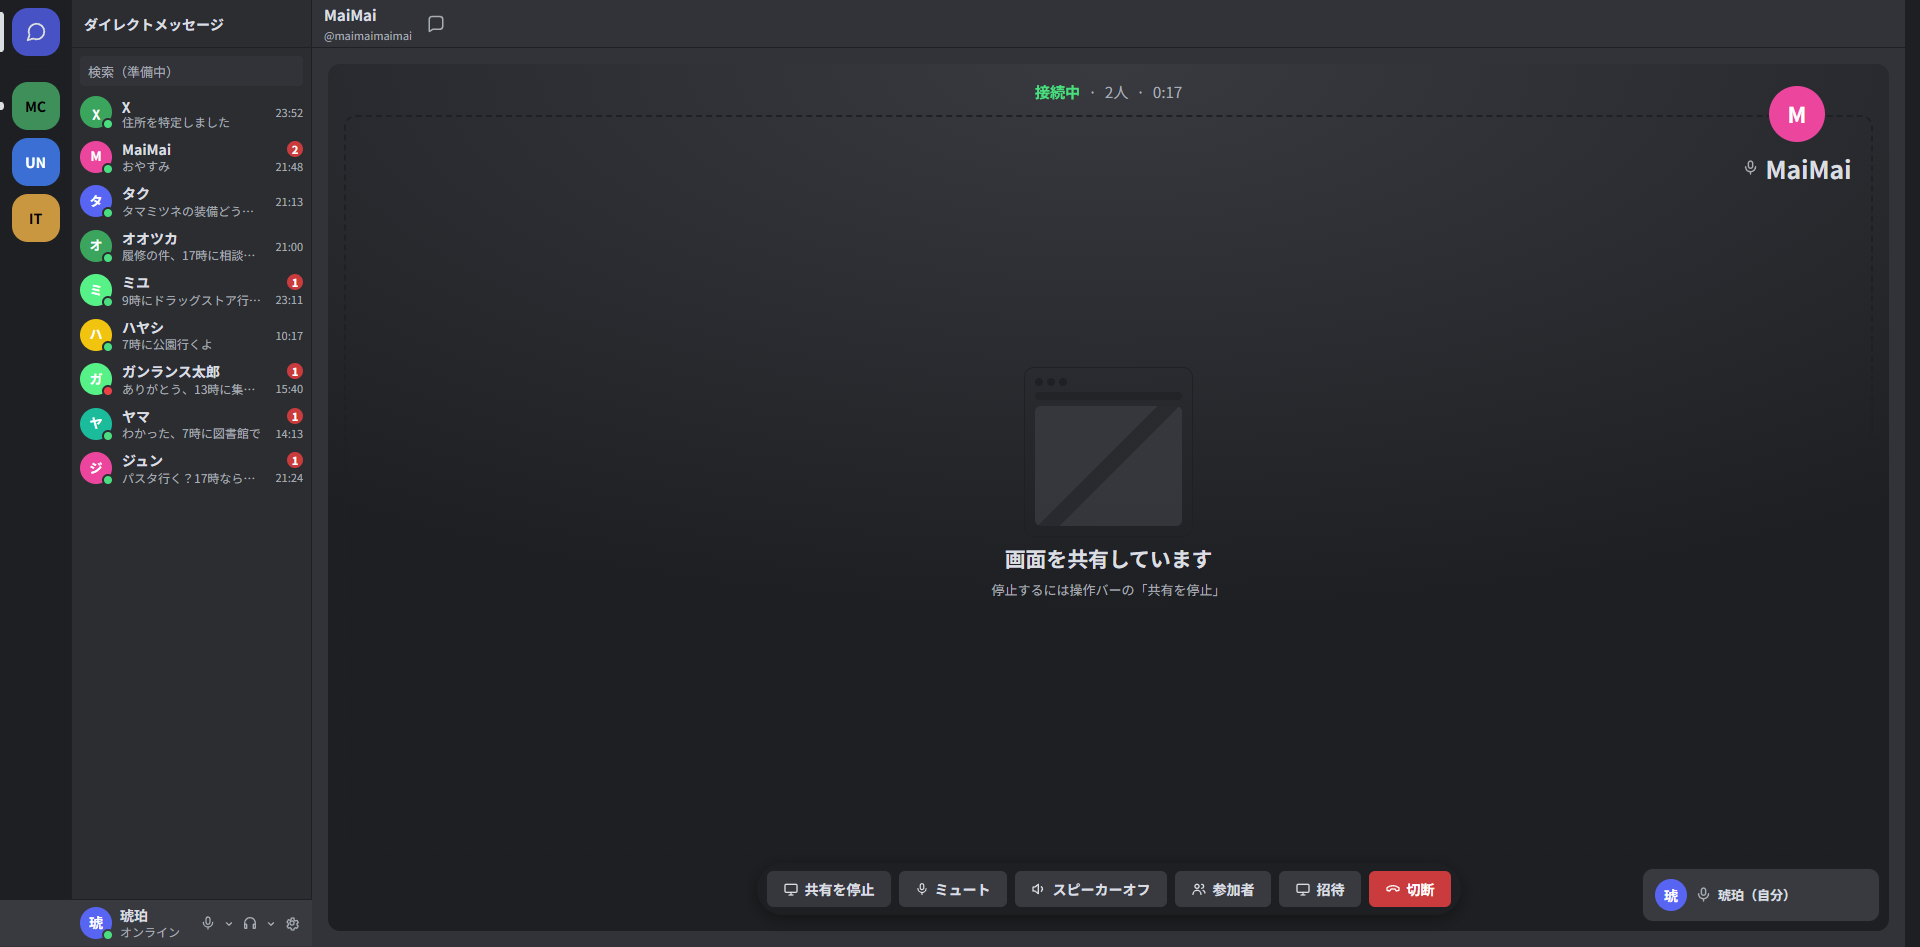
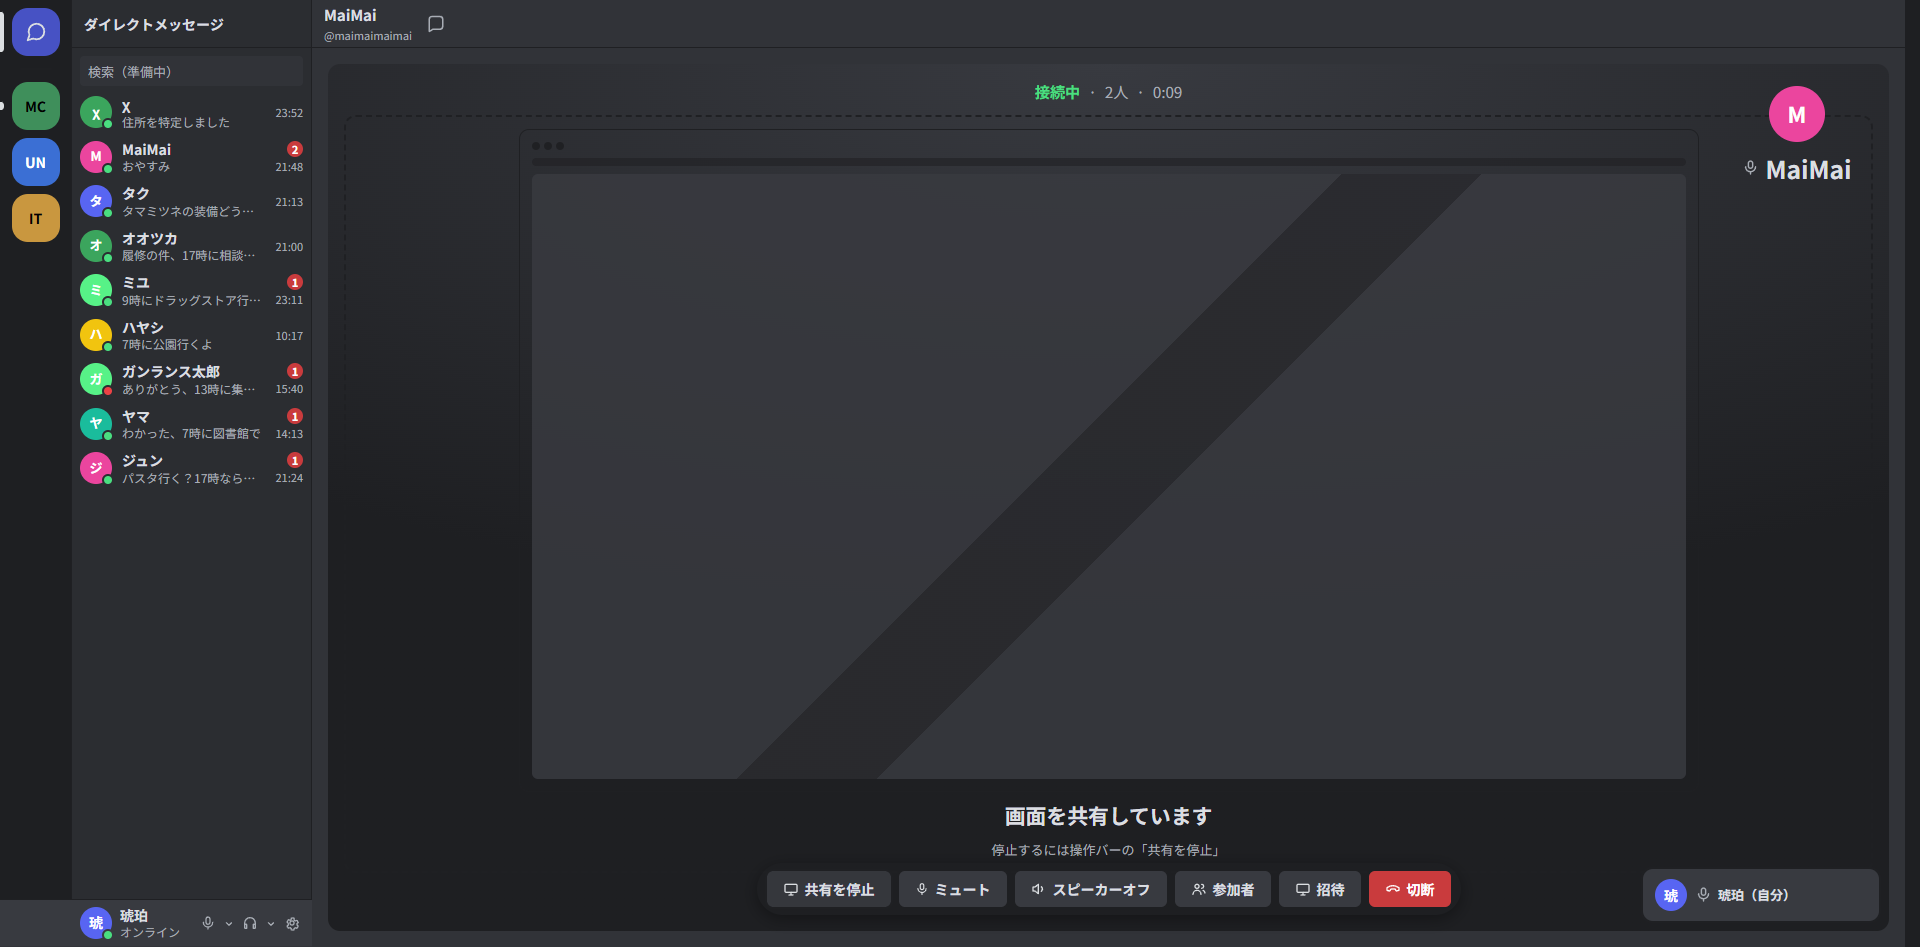
fix(voice): 共有中のウィンドウを大きくして画面の主役にする
1180px/88%・16:9・50vh以上にし、ステージの空領域を減らした。共有中スクショを差し替え。

Changed region(s): [[0.25, 0.5512, 0.875, 0.9187]]

diff --git a/app/globals.css b/app/globals.css
@@ -6778,9 +6778,11 @@ a.tw-dm-item:focus-visible {
 .call-share {
   display: grid;
   flex: 1;
-  place-content: center;
-  gap: 6px;
-  padding: 24px;
+  grid-template-columns: minmax(0, 1fr);
+  align-content: center;
+  justify-items: center;
+  gap: 8px;
+  padding: 12px;
   border: 2px dashed var(--color-divider);
   border-radius: 12px;
   color: var(--color-text-muted);
@@ -6850,10 +6852,14 @@ a.tw-dm-item:focus-visible {
 /* 共有中のプレースホルダー（ウィンドウ風） */
 .call-share-window {
   display: grid;
-  gap: 6px;
-  width: min(560px, 72%);
+  grid-template-rows: auto auto minmax(0, 1fr);
+  gap: 8px;
+  width: min(1180px, 88%);
+  min-width: 0;
+  min-height: 50vh;
+  aspect-ratio: 16 / 9;
   margin: 0 auto;
-  padding: 10px;
+  padding: 12px;
   border: 1px solid var(--color-divider);
   border-radius: 10px;
   background-color: var(--color-bg-panel);
@@ -6880,7 +6886,8 @@ a.tw-dm-item:focus-visible {
 
 .call-share-canvas {
   display: block;
-  height: 120px;
+  height: auto;
+  min-height: 0;
   border-radius: 6px;
   background-color: color-mix(in srgb, var(--color-bg-input) 85%, transparent);
   background-image: linear-gradient(
